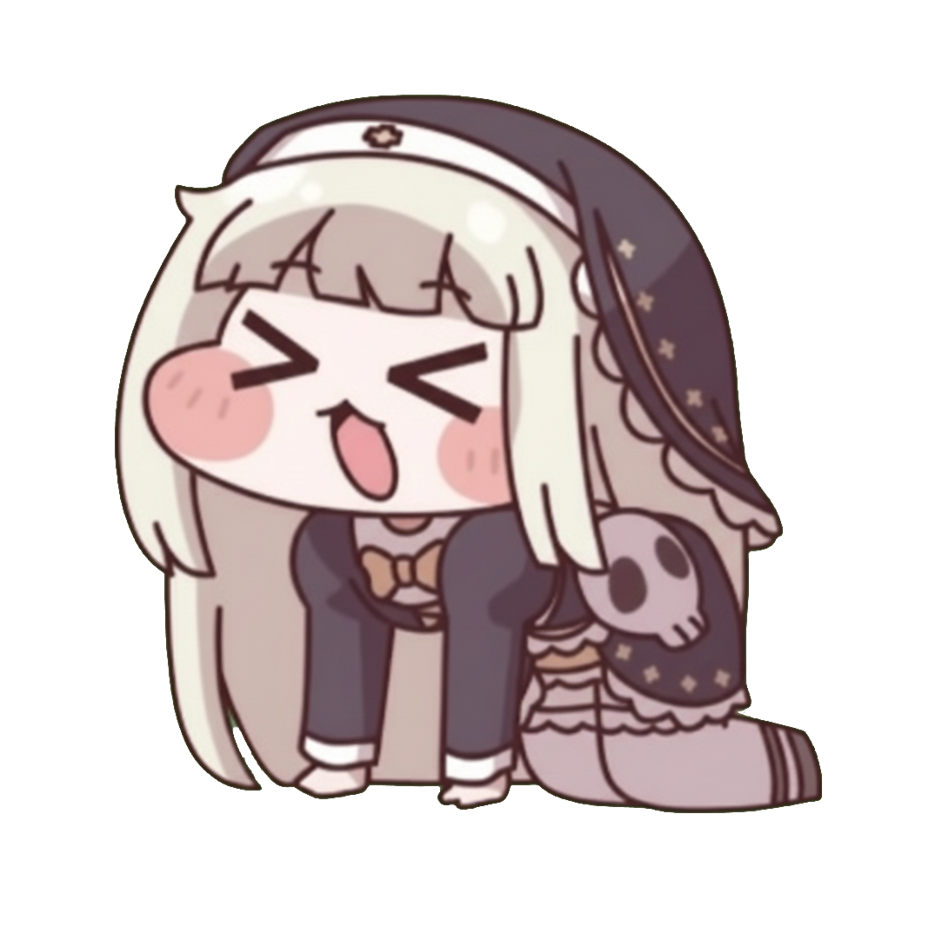
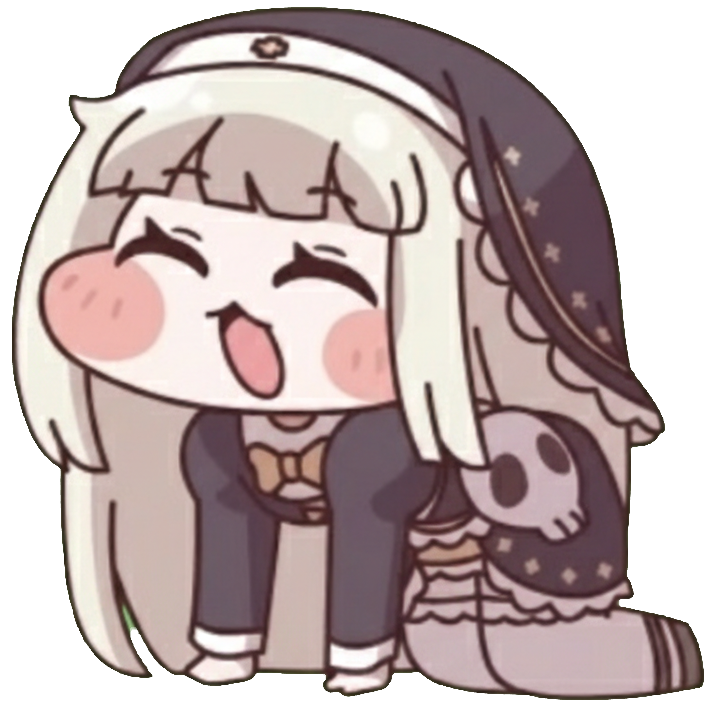
アセット整理

diff --git a/config.js b/config.js
@@ -38,57 +38,56 @@ export const ASSETS = {
             normal: {
                 idle: [
                     { imagefile: 'speaki_normal_idle_1.png', soundfile: 'チョワヨ.mp3', text: 'ﾁｮﾜﾖ!', movePattern: 'swing' },
-                    //{ imagefile: 'speaki_normal_idle_2.png', soundfile: 'アーウ.mp3', text: 'ｱｰｳ', movePattern: 'bounce' },
-                    //{ imagefile: 'speaki_normal_idle_3.png', soundfile: 'スピキ.mp3', text: 'ｽﾋﾟｷ!', movePattern: 'swing' }
+                    { imagefile: 'speaki_normal_idle_2.png', soundfile: 'スピキ.mp3', text: 'ｽﾋﾟｷ!', movePattern: 'none' },
                 ],
                 walking: [
                     { imagefile: 'speaki_normal_walking_1.png', soundfile: 'チョワヨ.mp3', text: 'ﾁｮﾜﾖ!', movePattern: 'swing' },
-                    { imagefile: 'speaki_normal_walking_2.png', soundfile: 'チョワヨチョワヨホバギチョワヨ.mp3', text: 'ﾁｮﾜﾖ-ﾁｮﾜﾖ-', movePattern: 'swing' },
-                    { imagefile: 'speaki_normal_walking_3.png', soundfile: 'スピキ.mp3', text: 'ｽﾋﾟｷ!', movePattern: 'swing' }
                 ]
             },
             happy: {
                 idle: [
                     { imagefile: 'speaki_happy_idle_1.png', soundfile: 'チョワヨ.mp3', text: 'ﾁｮﾜヨ!', movePattern: 'none' },
-                    { imagefile: 'speaki_happy_idle_2.png', soundfile: 'チョワヨチョワヨホバギチョワヨ.mp3', text: 'ﾁｮﾜﾖｰﾁｮﾜヨｰ', movePattern: 'swing' },
-                    { imagefile: 'speaki_happy_idle_3.png', soundfile: 'スピキ.mp3', text: 'ｽﾋﾟｷ!', movePattern: 'swing' }
+                    { imagefile: 'speaki_happy_idle_2.png', soundfile: 'チョワヨチョワヨホバギチョワヨ.mp3', text: 'ﾁｮﾜﾖｰﾁｮﾜﾖｰ', movePattern: 'swing' },
+                    { imagefile: 'speaki_happy_idle_3.png', soundfile: 'スピキ.mp3', text: 'ｽﾋﾟｷ!', movePattern: 'swing' },
+                    { imagefile: 'speaki_happy_idle_4.png', soundfile: 'チョワヨ.mp3', text: 'ﾁｮﾜﾖ!', movePattern: 'swing' },
+                    { imagefile: 'speaki_happy_idle_5.png', soundfile: 'スピキ.mp3', text: 'ｽﾋﾟｷ!', movePattern: 'swing' }
                 ],
                 walking: [
-                    { imagefile: 'speaki_happy_walking_1.png', soundfile: 'チョワヨチョワヨウェガレジチョワヨ.mp3', text: 'ﾁｮﾜヨ-ﾁｮﾜヨ-', movePattern: 'swing' },
-                    { imagefile: 'speaki_happy_walking_2.png', soundfile: 'チョワヨチョワヨホバギチョワヨ.mp3', text: 'ﾁｮﾜヨｰﾁｮﾜヨｰ', movePattern: 'swing' },
-                    { imagefile: 'speaki_happy_walking_3.png', soundfile: 'チョワヨチョワヨスンバコッチチョワヨ.mp3', text: 'ﾁｮﾜヨ-ﾁｮﾜヨ-', movePattern: 'swing' }
+                    { imagefile: 'speaki_happy_walking_1.png', soundfile: 'チョワヨチョワヨウェガレジチョワヨ.mp3', text: 'ﾁｮﾜﾖｰﾁｮﾜﾖｰ-ﾁｮﾜヨ-', movePattern: 'swing' },
+                    { imagefile: 'speaki_happy_walking_2.png', soundfile: 'チョワヨチョワヨホバギチョワヨ.mp3', text: 'ﾁｮﾜﾖｰﾁｮﾜﾖｰ', movePattern: 'swing' },
+                    { imagefile: 'speaki_happy_walking_3.png', soundfile: 'チョワヨチョワヨスンバコッチチョワヨ.mp3', text: 'ﾁｮﾜﾖｰﾁｮﾜﾖｰ', movePattern: 'swing' },
+                    { imagefile: 'speaki_happy_walking_4.png', soundfile: 'チョワヨ.mp3', text: 'ﾁｮﾜﾖ!', movePattern: 'none' },
+                    { imagefile: 'speaki_happy_walking_5.png', soundfile: 'スピキ.mp3', text: 'ｽﾋﾟｷ!', movePattern: 'swing' }
                 ],
                 giftwait: [
-                    { imagefile: 'speaki_happy_idle_1.png', soundfile: 'チョワヨ.mp3', text: 'ﾁｮﾜヨ!!!!!', movePattern: 'none' }
+                    { imagefile: 'speaki_happy_giftwait.png', soundfile: 'チョワヨ.mp3', text: 'ﾁｮﾜﾖ!!!!!', movePattern: 'none' }
                 ]
             },
             sad: {
                 idle: [
-                    //{ imagefile: 'speaki_sad_idle_1.png', soundfile: 'ウアア.mp3', text: 'ｳｱｱ!', movePattern: 'shake' },
-                    { imagefile: 'speaki_sad_idle_1.png', soundfile: 'ひきつけ.mp3', text: 'ﾋｯ…ﾋｯ…', movePattern: 'shake' },
-                    //{ imagefile: 'speaki_sad_idle_2.png', soundfile: 'デルジバゼヨ.mp3', text: 'ﾃﾞﾙｼﾞﾊﾞｾﾞヨ!', movePattern: 'shake' },
-                    //{ imagefile: 'speaki_sad_idle_3.png', soundfile: 'ウアアスピキデルジバゼヨ.mp3', text: 'ｳｱｱ!ｽﾋﾟｷﾃﾞﾙｼﾞﾊﾞｾﾞヨ!', movePattern: 'none' },
-                    //{ imagefile: 'speaki_sad_walking_1.png', soundfile: 'スピキヲイジメヌンデ.mp3', text: 'ｽﾋﾟｷヲｲｼﾞメヌンデ...', movePattern: 'shake' },
-                    //{ imagefile: 'speaki_sad_walking_3.png', soundfile: '本場スピキ叩き.mp3', text: 'ﾃﾞﾙｼﾞﾊﾞｾﾞヨ!', movePattern: 'shake' },
-                    //{ imagefile: 'speaki_sad_walking_3.png', soundfile: '完全詠唱.mp3', text: '完全詠唱', movePattern: 'shake' }
+                    { imagefile: 'speaki_sad_idle_1.png', soundfile: '完全詠唱.mp3', text: '完全詠唱', movePattern: 'shake' },
+                    { imagefile: 'speaki_sad_idle_2.png', soundfile: 'デルジバゼヨ.mp3', text: 'ﾃﾞﾙｼﾞﾊﾞｾﾞヨ!', movePattern: 'shake' },
+                    { imagefile: 'speaki_sad_idle_3.png', soundfile: 'ウアアスピキデルジバゼヨ.mp3', text: 'ｳｱｱ!ｽﾋﾟｷﾃﾞﾙｼﾞﾊﾞｾﾞヨ!', movePattern: 'shake' },
+                    { imagefile: 'speaki_sad_idle_4.png', soundfile: 'スピキヲイジメヌンデ.mp3', text: 'ｽﾋﾟｷｦｲｼﾞﾒﾇﾝﾃﾞ...', movePattern: 'shake' },
+                    { imagefile: 'speaki_sad_idle_5.png', soundfile: 'ひきつけ.mp3', text: 'ﾋｯｸ…ﾋｯｸ…', movePattern: 'shake' }
                 ],
                 walking: [
-                    { imagefile: 'speaki_sad_walking_1.png', soundfile: 'スピキヲイジメヌンデ.mp3', text: 'ｽﾋﾟｷヲｲｼﾞメヌンデ...', movePattern: 'shake' },
+                    { imagefile: 'speaki_sad_walking_1.png', soundfile: 'スピキヲイジメヌンデ.mp3', text: 'ｽﾋﾟｷｦｲｼﾞﾒﾇﾝﾃﾞ...', movePattern: 'shake' },
                     { imagefile: 'speaki_sad_walking_2.png', soundfile: 'アーウ.mp3', text: 'ｱｰｳ', movePattern: 'shake' },
-                    { imagefile: 'speaki_sad_walking_3.png', soundfile: '本場スピキ叩き.mp3', text: 'ﾃﾞﾙｼﾞﾊﾞｾﾞヨ!', movePattern: 'none' }
+                    { imagefile: 'speaki_sad_walking_3.png', soundfile: '本場スピキ叩き.mp3', text: 'ﾃﾞﾙｼﾞﾊﾞｾﾞﾖ!', movePattern: 'none' }
                 ]
             }
         },
         performance: {
             ITEM: {
-                Pumpkin: [{ imagefile: 'speaki_happy_idle_1.png', soundfile: 'チョワヨ.mp3', text: 'ﾁｮﾜヨ!', movePattern: 'bounce' }],
-                BabySpeaki: [{ imagefile: 'speaki_happy_idle_1.png', soundfile: 'チョワヨ.mp3', text: 'ﾁｮﾜヨ!', movePattern: 'bounce', pitch: 1.5 }],
+                Pumpkin: [{ imagefile: 'speaki_happy_idle_1.png', soundfile: 'チョワヨチョワヨホバギチョワヨ.mp3', text: 'ﾁｮﾜﾖｰﾁｮﾜﾖｰ', movePattern: 'bounce' }],
+                BabySpeaki: [{ imagefile: 'speaki_happy_idle_2.png', soundfile: 'チョワヨチョワヨホバギチョワヨ.mp3', text: 'ﾁｮﾜﾖｰﾁｮﾜﾖｰ', movePattern: 'bounce' }],
                 Candy: [{ imagefile: 'speaki_happy_idle_1.png', soundfile: 'チョワヨ.mp3', text: 'ﾁｮﾜﾖ!', movePattern: 'swing' }],
                 Mocaron: [{ imagefile: 'speaki_happy_idle_1.png', soundfile: 'チョワヨ.mp3', text: 'ﾁｮﾜﾖ!', movePattern: 'bounce' }],
                 AnimalCan: [{ imagefile: 'コミー.png', soundfile: 'これを食べて眠気を覚ますにゃん.mp3', text: 'これを食べて眠気を覚ますにゃん', movePattern: 'swing' }],
                 Shionmelone: [{ imagefile: 'speaki_sad_idle_1.png', soundfile: 'ウアア.mp3', text: 'ｳｱｱ!', movePattern: 'bounce' }],
                 LeviDriver: [{ imagefile: 'speaki_sad_idle_1.png', soundfile: 'ウアア.mp3', text: 'ｳｱｱ!', movePattern: 'bounce' }],
-                BrokenHobagi: [{ imagefile: 'speaki_sad_idle_1.png', soundfile: '慟哭.mp3', text: '慟哭', movePattern: 'bounce' }],
+                BrokenHobagi: [{ imagefile: 'speaki_sad_idle_3.png', soundfile: '慟哭.mp3', text: '慟哭', movePattern: 'shake' }],
                 generic: [{ imagefile: 'speaki_happy_idle_1.png', soundfile: 'チョワヨ.mp3', text: 'ﾁｮﾜﾖ!', movePattern: 'bounce' }]
             },
             happy: {
@@ -97,35 +96,37 @@ export const ASSETS = {
             },
             normal: {
                 idle: [{ imagefile: 'speaki_normal_idle_1.png', soundfile: 'スピキ.mp3', text: 'ｽﾋﾟｷ?', movePattern: 'bounce' }],
-                surprised: [{ imagefile: 'speaki_normal_idle_2.png', soundfile: 'アーウ.mp3', text: '痛いよ！', movePattern: 'bounce' }]
+                surprised: [{ imagefile: 'speaki_normal_idle_2.png', soundfile: 'アーウ.mp3', text: 'ｱｰｳ!', movePattern: 'bounce' }]
             },
             sad: {
                 idle: [{ imagefile: 'speaki_sad_idle_1.png', soundfile: 'アーウ.mp3', text: 'アーーウ...', movePattern: 'bounce' }],
-                //surprised: [{ imagefile: 'speaki_sad_surprised_1.png', soundfile: '完全詠唱.mp3', text: '完全詠唱', movePattern: 'shake' }],
                 surprised: [{ imagefile: 'speaki_sad_surprised_1.png', soundfile: 'ウアア.mp3', text: 'ｳｱｱｯ!', movePattern: 'shake' }],
-                gifttimeout: [{ imagefile: 'speaki_sad_idle_1.png', soundfile: 'アーウ.mp3', text: 'ｱｰｳ', movePattern: 'stretch' }]
+                gifttimeout: [{ imagefile: 'speaki_sad_idle_1.png', soundfile: 'スピキヲイジメヌンデ.mp3.mp3', text: 'ｽﾋﾟｷｦｲｼﾞﾒﾇﾝﾃﾞ……', movePattern: 'stretch' }]
             }
         }
     },
     baby: {
         mood: {
             normal: {
-                idle: [{ imagefile: 'speaki_normal_idle_1.png', soundfile: 'スピキ.mp3', text: 'ﾋﾟｷ!', movePattern: 'swing' }],
+                idle: [
+                    { imagefile: 'speaki_normal_idle_1.png', soundfile: 'スピキ.mp3', text: 'ﾋﾟｷ!', movePattern: 'swing' },
+                    { imagefile: 'speaki_normal_idle_2.png', soundfile: 'アーウ.mp3', text: 'ｱｰｳ!', movePattern: 'swing' }
+                ],
                 walking: [{ imagefile: 'speaki_normal_walking_1.png', soundfile: 'チョワヨ.mp3', text: 'ﾁｮﾜﾖ!', movePattern: 'bounce' }]
             },
             happy: {
-                idle: [{ imagefile: 'speaki_happy_idle_1.png', soundfile: 'チョワヨ.mp3', text: 'ｷｬﾊﾊ!', movePattern: 'bounce' }],
-                walking: [{ imagefile: 'speaki_happy_walking_1.png', soundfile: 'チョワヨ.mp3', text: 'ﾁｮﾜヨ!', movePattern: 'bounce' }]
+                idle: [{ imagefile: 'speaki_happy_idle_1.png', soundfile: 'チョワヨ.mp3', text: 'ﾁｮﾜﾖ!', movePattern: 'swing' }],
+                walking: [{ imagefile: 'speaki_happy_walking_2.png', soundfile: 'チョワヨ.mp3', text: 'ﾁｮﾜﾖ!', movePattern: 'bounce' }]
             },
             sad: {
-                idle: [{ imagefile: 'speaki_sad_idle_1.png', soundfile: 'アーウ.mp3', text: 'ｱｰｰｳ...', movePattern: 'bounce' }],
-                walking: [{ imagefile: 'speaki_sad_walking_1.png', soundfile: 'アーウ.mp3', text: 'ｱーｳ...', movePattern: 'bounce' }]
+                idle: [{ imagefile: 'speaki_sad_idle_1.png', soundfile: 'アーウ.mp3', text: 'ｱｰｰｳ...', movePattern: 'shake' }],
+                walking: [{ imagefile: 'speaki_sad_walking_2.png', soundfile: 'アーウ.mp3', text: 'ｱｰｳ...', movePattern: 'shake' }]
             }
         },
         performance: {
             ITEM: {
-                Pumpkin: [{ imagefile: 'speaki_happy_idle_1.png', soundfile: 'チョワヨ.mp3', text: 'ﾁｮﾜヨ!', movePattern: 'bounce' }],
-                BabySpeaki: [{ imagefile: 'speaki_happy_idle_1.png', soundfile: 'チョワヨ.mp3', text: 'ﾁｮﾜヨ!', movePattern: 'bounce', pitch: 1.5 }],
+                Pumpkin: [{ imagefile: 'speaki_happy_idle_1.png', soundfile: 'チョワヨ.mp3', text: 'ﾁｮﾜﾖ!', movePattern: 'bounce' }],
+                BabySpeaki: [{ imagefile: 'speaki_happy_idle_1.png', soundfile: 'チョワヨ.mp3', text: 'ﾁｮﾜﾖ!', movePattern: 'bounce', pitch: 1.5 }],
                 Candy: [{ imagefile: 'speaki_happy_idle_1.png', soundfile: 'チョワヨ.mp3', text: 'ﾁｮﾜﾖ!', movePattern: 'swing' }],
                 Mocaron: [{ imagefile: 'speaki_happy_idle_1.png', soundfile: 'チョワヨ.mp3', text: 'ﾁｮﾜﾖ!', movePattern: 'bounce' }],
                 AnimalCan: [{ imagefile: 'コミー.png', soundfile: 'これを食べて眠気を覚ますにゃん.mp3', text: 'これを食べて眠気を覚ますにゃん', movePattern: 'swing' }],
@@ -214,8 +215,6 @@ export const ITEMS = {
         size: 100,
         text: 'エルフ族特製!',
         isSpecialGift: true,
-        nutrition: 60,
-        isFood: true,
     },
     Shionmelone: {
         name: 'シオン・ザ・メロンブレッド',

diff --git a/base-character.js b/base-character.js
@@ -224,7 +224,7 @@ export class BaseCharacter {
             case STATE.ITEM_ACTION:
                 const duration = this.timers.actionDuration || 3000;
                 if (now - this.timers.actionStart > duration) {
-                    this.status.state = STATE.IDLE;
+                    this.status.state = (this.status.stateStack.length > 0) ? this.status.stateStack.pop() : STATE.IDLE;
                     this._onStateChanged(this.status.state);
                 }
                 break;
@@ -240,7 +240,7 @@ export class BaseCharacter {
 
             case STATE.GAME_REACTION:
                 if (now - this.timers.actionStart > (this.timers.actionDuration || 4000)) {
-                    this.status.state = STATE.IDLE;
+                    this.status.state = (this.status.stateStack.length > 0) ? this.status.stateStack.pop() : STATE.IDLE;
                     this._onStateChanged(this.status.state);
                 }
                 break;
@@ -358,26 +358,46 @@ export class BaseCharacter {
 
     /** ランダム散歩の目的地決定 */
     _decideWanderingDestination(w, h) {
-        // 食べ物の探索 (空腹時)
+        const game = window.game;
+
+        // 1. 食べ物の探索 (空腹時: 近くにあれば100%の確率で向かう)
         if (this.status.hunger <= 0) {
-            const game = window.game;
             const foodItems = game ? game.placedItems.filter(it => {
                 const def = ITEMS[it.id];
                 const dist = Math.sqrt((it.x - this.pos.x) ** 2 + (it.y - this.pos.y) ** 2);
-                // isFood が true のものだけを探す
                 return def && def.isFood && dist <= 500;
             }) : [];
 
-            if (foodItems.length > 0 && Math.random() < 0.5) {
+            if (foodItems.length > 0) {
                 this.approachItem(foodItems[Math.floor(Math.random() * foodItems.length)]);
                 return;
             }
         }
 
-        // 通常のランダム位置
+        // 2. アイテムへの興味 (20% の確率で近くのアイテムに寄る)
+        if (game && game.placedItems.length > 0 && Math.random() < 0.2) {
+            const itemsInRange = game.placedItems.filter(it => {
+                const dist = Math.sqrt((it.x - this.pos.x) ** 2 + (it.y - this.pos.y) ** 2);
+                if (dist > 500) return false;
+
+                // お腹いっぱいの時は食べ物を除外
+                if (this.status.hunger >= 90) {
+                    const def = ITEMS[it.id];
+                    if (def && def.isFood) return false;
+                }
+                return true;
+            });
+            if (itemsInRange.length > 0) {
+                this.approachItem(itemsInRange[Math.floor(Math.random() * itemsInRange.length)]);
+                return;
+            }
+        }
+
+        // 3. 通常のランダム位置
         this.interaction.targetItem = null;
         this.pos.targetX = Math.random() * (w - 100) + 50;
         this.pos.targetY = Math.random() * (h - 100) + 50;
+        this.pos.destinationSet = true;
     }
 
     /** 移動処理 */
@@ -408,12 +428,10 @@ export class BaseCharacter {
 
     /** 状態変更時の初期化 */
     _onStateChanged(newState) {
-        const isActualChange = this.status.state !== newState;
         // _applySelectedAsset内で_stopCurrentVoiceが呼ばれるため、ここでは明示的に呼ばない
         this.timers.stateStart = Date.now();
-        if (isActualChange) {
-            this.pos.destinationSet = false; // 実際に状態が変わった時のみリセット
-        }
+        this.pos.destinationSet = false; // 状態が変わったら（または再設定されたら）必ずリセットして、次の実行フレームで目的地を再計算させる
+
         this._applyStateAppearance(newState);
         this._applySelectedAsset(newState);
         this.visual.motionTimer = 0;
@@ -618,6 +636,10 @@ export class BaseCharacter {
         }
         this.pos.destinationSet = true;
         this._onStateChanged(this.status.state);
+
+        // 修正: _onStateChanged が destinationSet = false にリセットするため、
+        // 意図した目的地を設定した直後に再度明示的に true にする
+        this.pos.destinationSet = true;
     }
 
     /** 近くのキャラを検知して交流を開始する */

diff --git a/tests/speaki.test.js b/tests/speaki.test.js
@@ -278,5 +278,98 @@ describe('Speaki Character Logic', () => {
         baby._updateStateTransition();
         expect(global.window.game.evolveBaby).toHaveBeenCalledWith(baby);
     });
-});
 
+    it('should clear giftPartner if zombie state detected (self-healing)', () => {
+        // Setup zombie state:
+        // Game thinks this speaki is the partner
+        global.window.game.giftPartner = speaki;
+
+        // But Speaki is actually just IDLE (not in any gift state)
+        speaki.status.state = STATE.IDLE;
+
+        // When _tryStartGiftEvent is called (checked every frame in updateStateTransition)
+        // It should detect the mismatch and clear it
+        speaki._tryStartGiftEvent(Date.now());
+
+        expect(global.window.game.giftPartner).toBeNull();
+    });
+
+    it('should reset destinationSet when a state is re-applied to ensure new destination selection', () => {
+        speaki.status.state = STATE.GIFT_LEAVING;
+        speaki.pos.destinationSet = true;
+
+        // Simulate re-applying the state (e.g., during event start)
+        speaki._onStateChanged(STATE.GIFT_LEAVING);
+
+        expect(speaki.pos.destinationSet).toBe(false);
+    });
+
+    it('should pop stateStack when ITEM_ACTION finishes if a state was stacked', () => {
+        speaki.status.stateStack.push(STATE.GIFT_LEAVING);
+        speaki.status.state = STATE.ITEM_ACTION;
+        speaki.timers.actionStart = Date.now() - 5000;
+        speaki.timers.actionDuration = 3000;
+
+        speaki._updateStateTransition();
+
+        expect(speaki.status.state).toBe(STATE.GIFT_LEAVING);
+    });
+
+    it('should prioritize food (100% chance) when hungry and food is nearby', () => {
+        speaki.status.hunger = 0;
+        const food = { id: 'Candy', x: 100, y: 100, consume: vi.fn() };
+        global.window.game.placedItems = [food];
+
+        // Mocking approachItem to verify it's called
+        const spy = vi.spyOn(speaki, 'approachItem');
+
+        speaki._decideWanderingDestination(1200, 800);
+
+        expect(spy).toHaveBeenCalledWith(food);
+    });
+
+    it('should ignore food items in wandering when hunger is >= 90', () => {
+        speaki.status.hunger = 90;
+        const food = { id: 'Candy', x: 200, y: 200 };
+        global.window.game.placedItems = [food];
+
+        const spy = vi.spyOn(speaki, 'approachItem');
+        vi.spyOn(Math, 'random').mockReturnValue(0.1); // Force interaction attempt
+
+        speaki._decideWanderingDestination(1200, 800);
+
+        expect(spy).not.toHaveBeenCalled();
+        vi.restoreAllMocks();
+    });
+
+    it('should still target non-food items in wandering when hunger is >= 90', () => {
+        speaki.status.hunger = 95;
+        const toy = { id: 'Pumpkin', x: 200, y: 200 };
+        global.window.game.placedItems = [toy];
+
+        const spy = vi.spyOn(speaki, 'approachItem');
+        vi.spyOn(Math, 'random').mockReturnValue(0.1); // Force interaction attempt
+
+        speaki._decideWanderingDestination(1200, 800);
+
+        expect(spy).toHaveBeenCalledWith(toy);
+        vi.restoreAllMocks();
+    });
+
+    it('should have 20% chance to target any item when not hungry', () => {
+        speaki.status.hunger = 100;
+        const item = { id: 'Pumpkin', x: 200, y: 200 };
+        global.window.game.placedItems = [item];
+
+        const spy = vi.spyOn(speaki, 'approachItem');
+
+        // Force Math.random to a value < 0.2
+        vi.spyOn(Math, 'random').mockReturnValue(0.15);
+
+        speaki._decideWanderingDestination(1200, 800);
+
+        expect(spy).toHaveBeenCalledWith(item);
+
+        vi.restoreAllMocks();
+    });
+});

diff --git a/game.js b/game.js
@@ -376,6 +376,8 @@ export class Game {
             if (speaki.status.friendship <= -31) return;
             // 空腹時は食べ物以外無視する
             if (speaki.status.hunger <= 0 && !itemDef.isFood) return;
+            // お腹いっぱいの時は食べ物を無視する
+            if (speaki.status.hunger >= 90 && itemDef.isFood) return;
 
             const nonInterruptibleStates = [
                 STATE.GIFT_RETURNING,
@@ -554,6 +556,13 @@ export class Game {
         if (speaki.status.friendship <= -31) {
             // 限界突破：今のリアクションをかき消して逃げる（前の音を強制停止）
             speaki.interaction.isInteracting = false;
+
+            // もしこの個体がギフト担当だった場合、担当を解除してイベントを中断する (ゾンビ化防止)
+            if (this.giftPartner === speaki) {
+                this.completeGiftEvent(null); // NULLを渡してリセットのみ行う
+                console.log(`[Game] Gift event aborted because Speaki ${speaki.id} fled.`);
+            }
+
             speaki.status.state = STATE.IDLE; // 一旦IDLEにしてから次フレームで即座にWALKING(隠れ家)へ移行させる
             speaki.setExpression('idle', 'sad'); // 真っ先に悲しい表情と声にする
             console.log(`[Game] Speaki ${speaki.id} reached breaking point and is fleeing.`);
@@ -573,6 +582,7 @@ export class Game {
         speaki.pos.destinationSet = false;
         speaki.status.state = (speaki.status.stateStack.length > 0) ? speaki.status.stateStack.pop() : STATE.IDLE;
         speaki._stopCurrentVoice();
+        speaki._onStateChanged(speaki.status.state); // 追加：復帰後のアニメーション/アセットを適用
         this.interactTarget = null;
     }
 
@@ -670,6 +680,7 @@ export class Game {
         }
         this.giftPartner = null;
         this.lastGiftTime = Date.now();
+        this.updateGiftUI('hide'); // 追加：UIを確実に隠す
     }
 
     loop(time) {
@@ -729,6 +740,13 @@ export class Game {
         const index = this.speakis.findIndex(s => s.id === id);
         if (index !== -1) {
             const s = this.speakis[index];
+
+            // 削除される個体がギフト担当だった場合、担当を解除 (ゾンビ化防止)
+            if (this.giftPartner === s) {
+                this.completeGiftEvent(null);
+                console.log(`[Game] Gift event aborted because Speaki ${id} was removed.`);
+            }
+
             if (s.visual.dom.container) s.visual.dom.container.remove();
             this.speakis.splice(index, 1);
             if (this.highlightedCharId === id) this.highlightedCharId = null;

diff --git a/speaki.js b/speaki.js
@@ -194,6 +194,14 @@ export class Speaki extends BaseCharacter {
     _tryStartGiftEvent(now) {
         if (typeof window === 'undefined' || !window.game) return false;
         const game = window.game;
+
+        // 【自己修復】もし自分がギフト担当になっているのに、このメソッドが呼ばれた（＝ギフト状態ではない）場合、
+        // 状態不整合（ゾンビ）とみなして担当を解除する
+        if (game.giftPartner === this) {
+            console.warn(`[Speaki] Self-healing: Cleared zombie gift partner state for ${this.id}`);
+            game.giftPartner = null;
+        }
+
         const timeSinceLastGift = now - game.lastGiftTime;
         const canStartGift = this.status.friendship >= 31 && timeSinceLastGift >= 30000 && !game.giftPartner;
 
